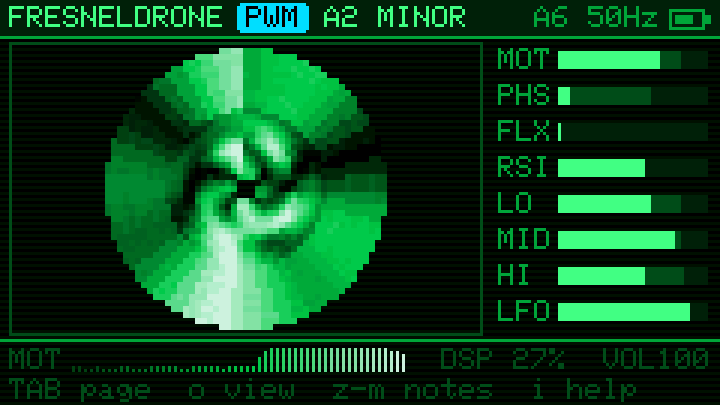
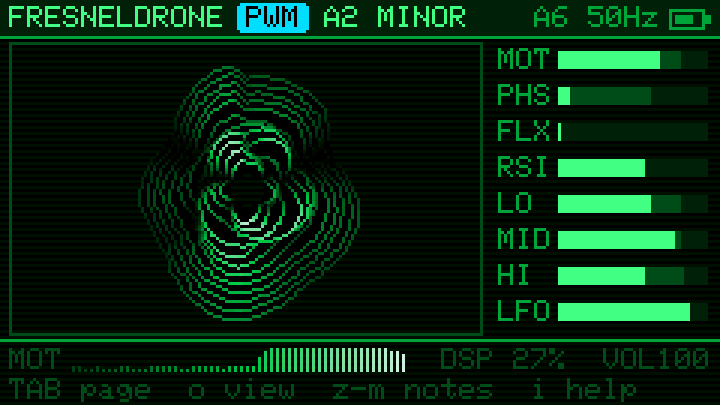
RADIAL waterfall as rippling rings; one boot line
RADIAL now draws every fourth row as a ring bulging outward with the
signal, the newest in the middle and older ones rippling out, each ring
hiding what's behind its bulges (like the 3D ridges), instead of a
pixel-mapped disc. The boot screen types one line: "Simplicity lies
concealed in this chaos".

Changed region(s): [[0.1222, 0.1185, 0.55, 0.8296]]

diff --git a/src/main.cpp b/src/main.cpp
@@ -361,10 +361,7 @@ static void backdrop() {
 
 // Boot: a CRT warming up, then the title over a rippling subcarrier skyline.
 static void bootAnimation(const char* crash) {
-  static const char* const TAGLINES[] = {"the room plays the drone",        "every body bends the signal",
-                                         "listening to the air",            "your movement is the instrument",
-                                         "52 subcarriers, one drone",       "slow music for still rooms"};
-  const char* sub = TAGLINES[esp_random() % (sizeof TAGLINES / sizeof *TAGLINES)];
+  const char* sub = "Simplicity lies concealed in this chaos";  // 39 characters: the screen's width
   const int len = strlen(sub), cy = H / 2;
   const uint32_t end = 900 + len * 30 + 1500;  // typing, then 1.5 s to read
   for (uint32_t t0 = millis(), t = 0; t < end; t = millis() - t0) {
@@ -478,15 +475,29 @@ static void drawWaterfall() {
   if (wfView == 0) {  // XY: subcarrier ->, time v
     for (int r = 0; r < WF_ROWS; r++)
       for (int k = 0; k < NSC; k++) cv.fillRect(4 + k * 3, 15 + r * 2, 3, 2, ramp[hist(r)[k]]);
-  } else if (wfView == 1) {  // RADIAL: subcarriers clockwise from 12, newest in the middle, rippling out
-    const int R = bh / 2 - 2, r0 = 4;
-    for (int y = -R; y < R; y += 2)  // 2x2 blocks: half the radial rows, a quarter of the atan2s
-      for (int x = -R; x < R; x += 2) {
-        float d = sqrtf((x + 1) * (x + 1) + (y + 1) * (y + 1));
-        if (d < r0 || d >= R) continue;
-        int k = (int)((atan2f(x + 1, -(y + 1)) / 6.2832f + 1) * NSC) % NSC;
-        cv.fillRect(cx + x, cy + y, 2, 2, ramp[hist((int)((d - r0) / (R - r0) * WF_ROWS))[k]]);
+  } else if (wfView == 1) {  // RADIAL: every fourth row as a ring bulging outward with the signal,
+    // subcarriers clockwise from 12; the newest in the middle, older ones rippling out like Fresnel zones
+    constexpr int SEG = NSC * 2;  // points per ring: halfway points round the outline
+    float sn[SEG + 1], cs[SEG + 1];
+    for (int i = 0; i <= SEG; i++) sn[i] = sinf(i * 6.2832f / SEG), cs[i] = cosf(i * 6.2832f / SEG);
+    for (int r = WF_ROWS - 4; r >= 0; r -= 4) {  // outside in: each ring hides what's behind its bulges
+      const uint8_t* row = hist(r);
+      float z = (float)r / WF_ROWS, rb = 6 + 26 * z, amp = 5 + 10 * z;  // age 0..1: baseline, bulge
+      int bx[SEG + 1], by[SEG + 1], px[SEG + 1], py[SEG + 1];  // baseline circle, outline
+      uint16_t col[SEG + 1];
+      for (int i = 0; i <= SEG; i++) {
+        int k = i % SEG / 2;
+        float v = i % 2 ? (row[k] + row[(k + 1) % NSC]) / 2.f : row[k], rr = rb + v / 31 * amp;  // 0..31
+        bx[i] = cx + lroundf(sn[i] * rb), by[i] = cy - lroundf(cs[i] * rb);
+        px[i] = cx + lroundf(sn[i] * rr), py[i] = cy - lroundf(cs[i] * rr);
+        col[i] = ramp[(int)(v * (1 - 0.6f * z))];  // dimmer further out
       }
+      for (int i = 1; i <= SEG; i++) {  // the ring's body, then its outline on top
+        cv.fillTriangle(bx[i - 1], by[i - 1], bx[i], by[i], px[i], py[i], C_BG);
+        cv.fillTriangle(bx[i - 1], by[i - 1], px[i], py[i], px[i - 1], py[i - 1], C_BG);
+      }
+      for (int i = 1; i <= SEG; i++) cv.drawLine(px[i - 1], py[i - 1], px[i], py[i], col[i]);
+    }
   } else {  // 3D: every other row as a ridge, newest in front, older ones further back and smaller
     for (int r = WF_ROWS - 2; r >= 0; r -= 2) {  // back to front: each ridge hides what's behind it
       const uint8_t* row = hist(r);

diff --git a/test/screens.cpp b/test/screens.cpp
@@ -106,6 +106,22 @@ struct M5Canvas {
   void fillSprite(uint16_t c) { fillRect(0, 0, 240, 135, c); }
   void drawFastHLine(int x, int y, int w, uint16_t c) { fillRect(x, y, w, 1, c); }
   void drawFastVLine(int x, int y, int h, uint16_t c) { fillRect(x, y, 1, h, c); }
+  void drawLine(int x0, int y0, int x1, int y1, uint16_t c) {  // Bresenham
+    int dx = abs(x1 - x0), dy = -abs(y1 - y0), sx = x0 < x1 ? 1 : -1, sy = y0 < y1 ? 1 : -1, e = dx + dy;
+    for (drawPixel(x0, y0, c); x0 != x1 || y0 != y1; drawPixel(x0, y0, c)) {
+      int e2 = 2 * e;
+      if (e2 >= dy) e += dy, x0 += sx;
+      if (e2 <= dx) e += dx, y0 += sy;
+    }
+  }
+  void fillTriangle(int x0, int y0, int x1, int y1, int x2, int y2, uint16_t c) {  // pixels inside or on an edge
+    auto side = [](int ax, int ay, int bx, int by, int x, int y) { return (bx - ax) * (y - ay) - (by - ay) * (x - ax); };
+    for (int y = std::min({y0, y1, y2}); y <= std::max({y0, y1, y2}); y++)
+      for (int x = std::min({x0, x1, x2}); x <= std::max({x0, x1, x2}); x++) {
+        int a = side(x0, y0, x1, y1, x, y), b = side(x1, y1, x2, y2, x, y), d = side(x2, y2, x0, y0, x, y);
+        if ((a >= 0 && b >= 0 && d >= 0) || (a <= 0 && b <= 0 && d <= 0)) drawPixel(x, y, c);
+      }
+  }
   void drawRect(int x, int y, int w, int h, uint16_t c) { fillRect(x, y, w, 1, c); fillRect(x, y + h - 1, w, 1, c); fillRect(x, y, 1, h, c); fillRect(x + w - 1, y, 1, h, c); }
   void fillRoundRect(int x, int y, int w, int h, int, uint16_t c) { fillRect(x + 1, y, w - 2, h, c); fillRect(x, y + 1, w, h - 2, c); }
   int textWidth(const char* s) { return (int)strlen(s) * 6 * size; }

diff --git a/manual.md b/manual.md
@@ -41,7 +41,7 @@ A picture of the WiFi signal over time. Each column is one of 52 slices of the W
 
 Press `o` to change how the waterfall draws its history (the choice is remembered):
 - **XY**: as above, slices left to right, time top to bottom.
-- **RADIAL**: the slices go round the clock from 12, the newest reading is in the middle and the history ripples outward: movement spreads as rings.
+- **RADIAL**: each reading is a ring that bulges with the signal, slices going round the clock from 12. The newest is in the middle and older ones ripple outward like Fresnel zones: movement shows as bulges travelling out.
 - **3D**: each reading is a ridge, the newest in front and older ones further back, like a mountain range moving toward you.
 
 On the right are live meters for the eight **mod sources** (explained below). The dim bar behind each meter is a fading memory of its recent peak.
